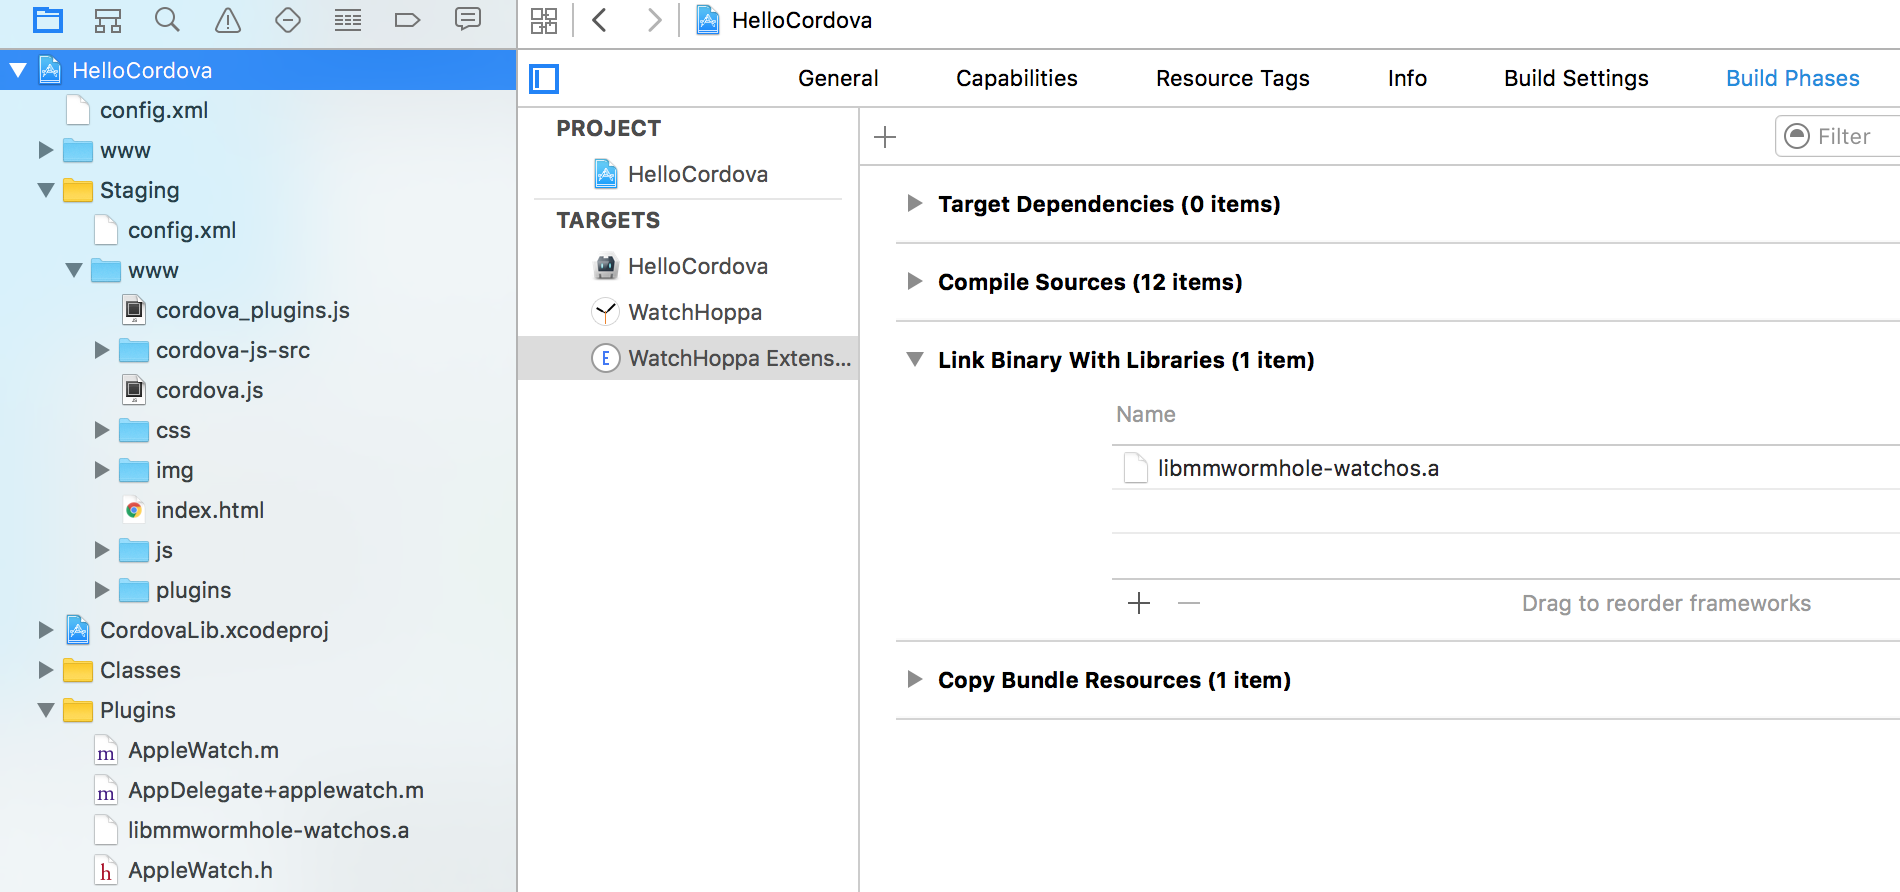
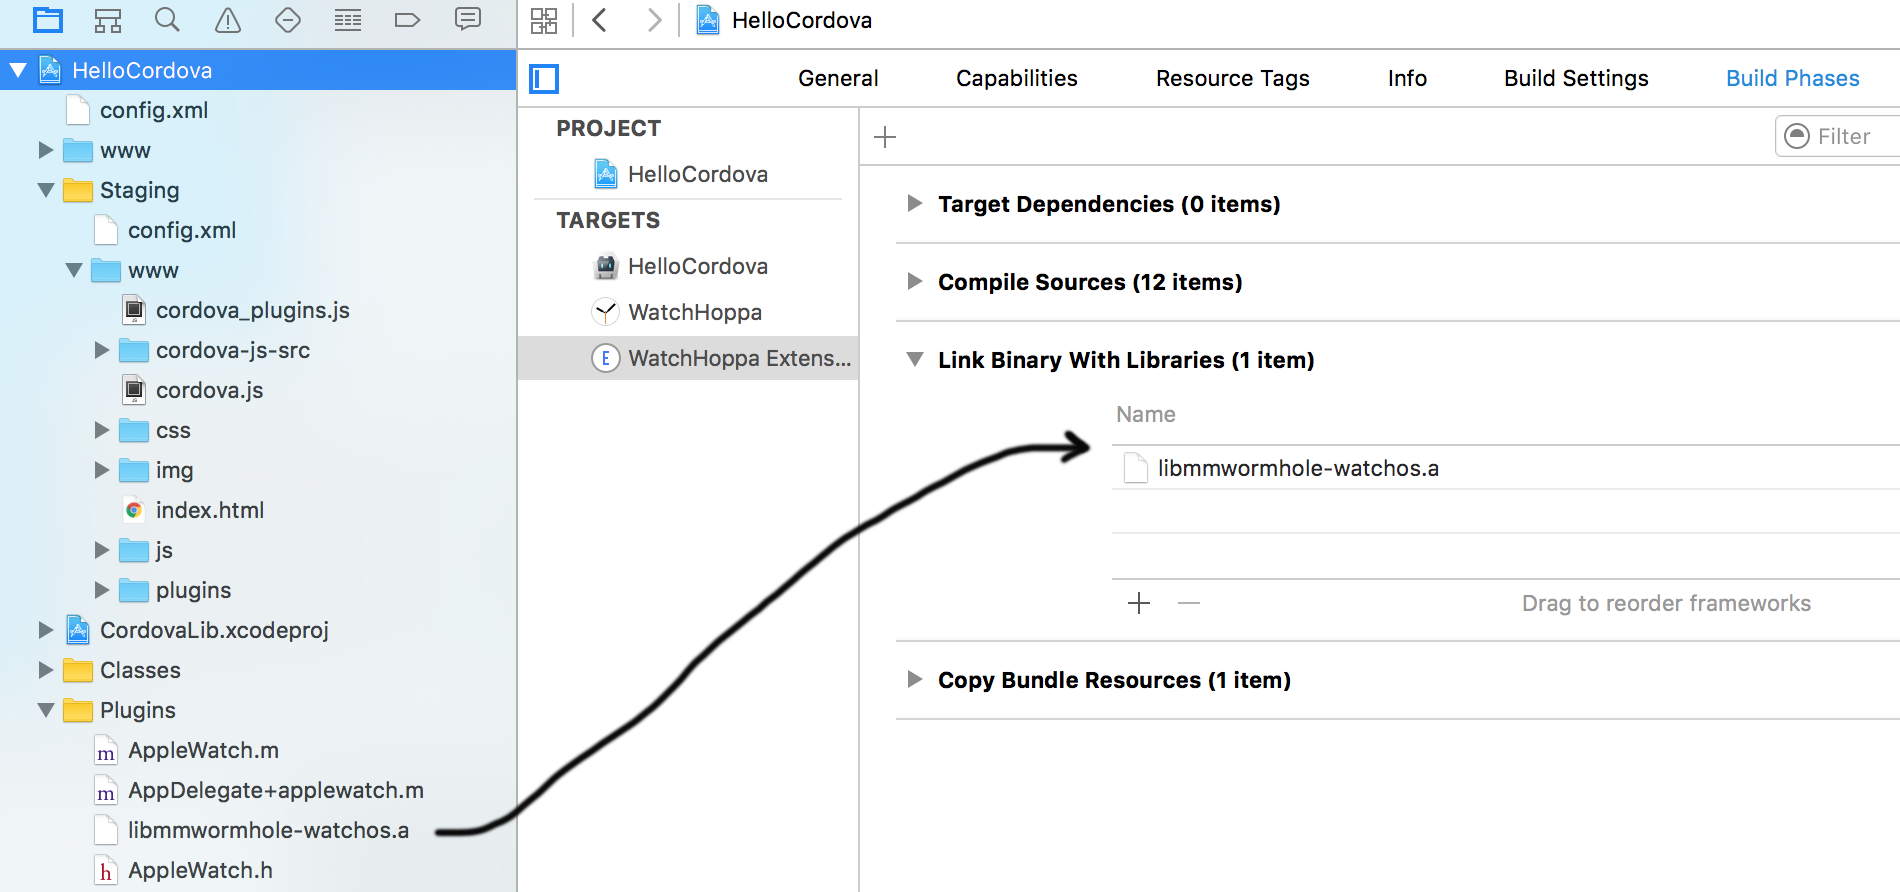
WatchOS2 support

diff --git a/README.md b/README.md
@@ -607,7 +607,7 @@ Instructions are for Xcode 7, newer versions probably differ slightly. How about
 Select You appname in the topleft corner, then the Watch Extension target, and open 'Build Phases'.
 Now expand 'Link Binary With Libraries' and drag `Plugins/libmmwormhole-watchos.a` over there:
 
-<img src="doc/wormhole-lib-target.png" width="700px" alt="Drag lib to target"/>
+<img src="doc/wormhole-lib-target.png?v=2" width="700px" alt="Drag lib to target"/>
 
 At this point your builds should succeed.
 
